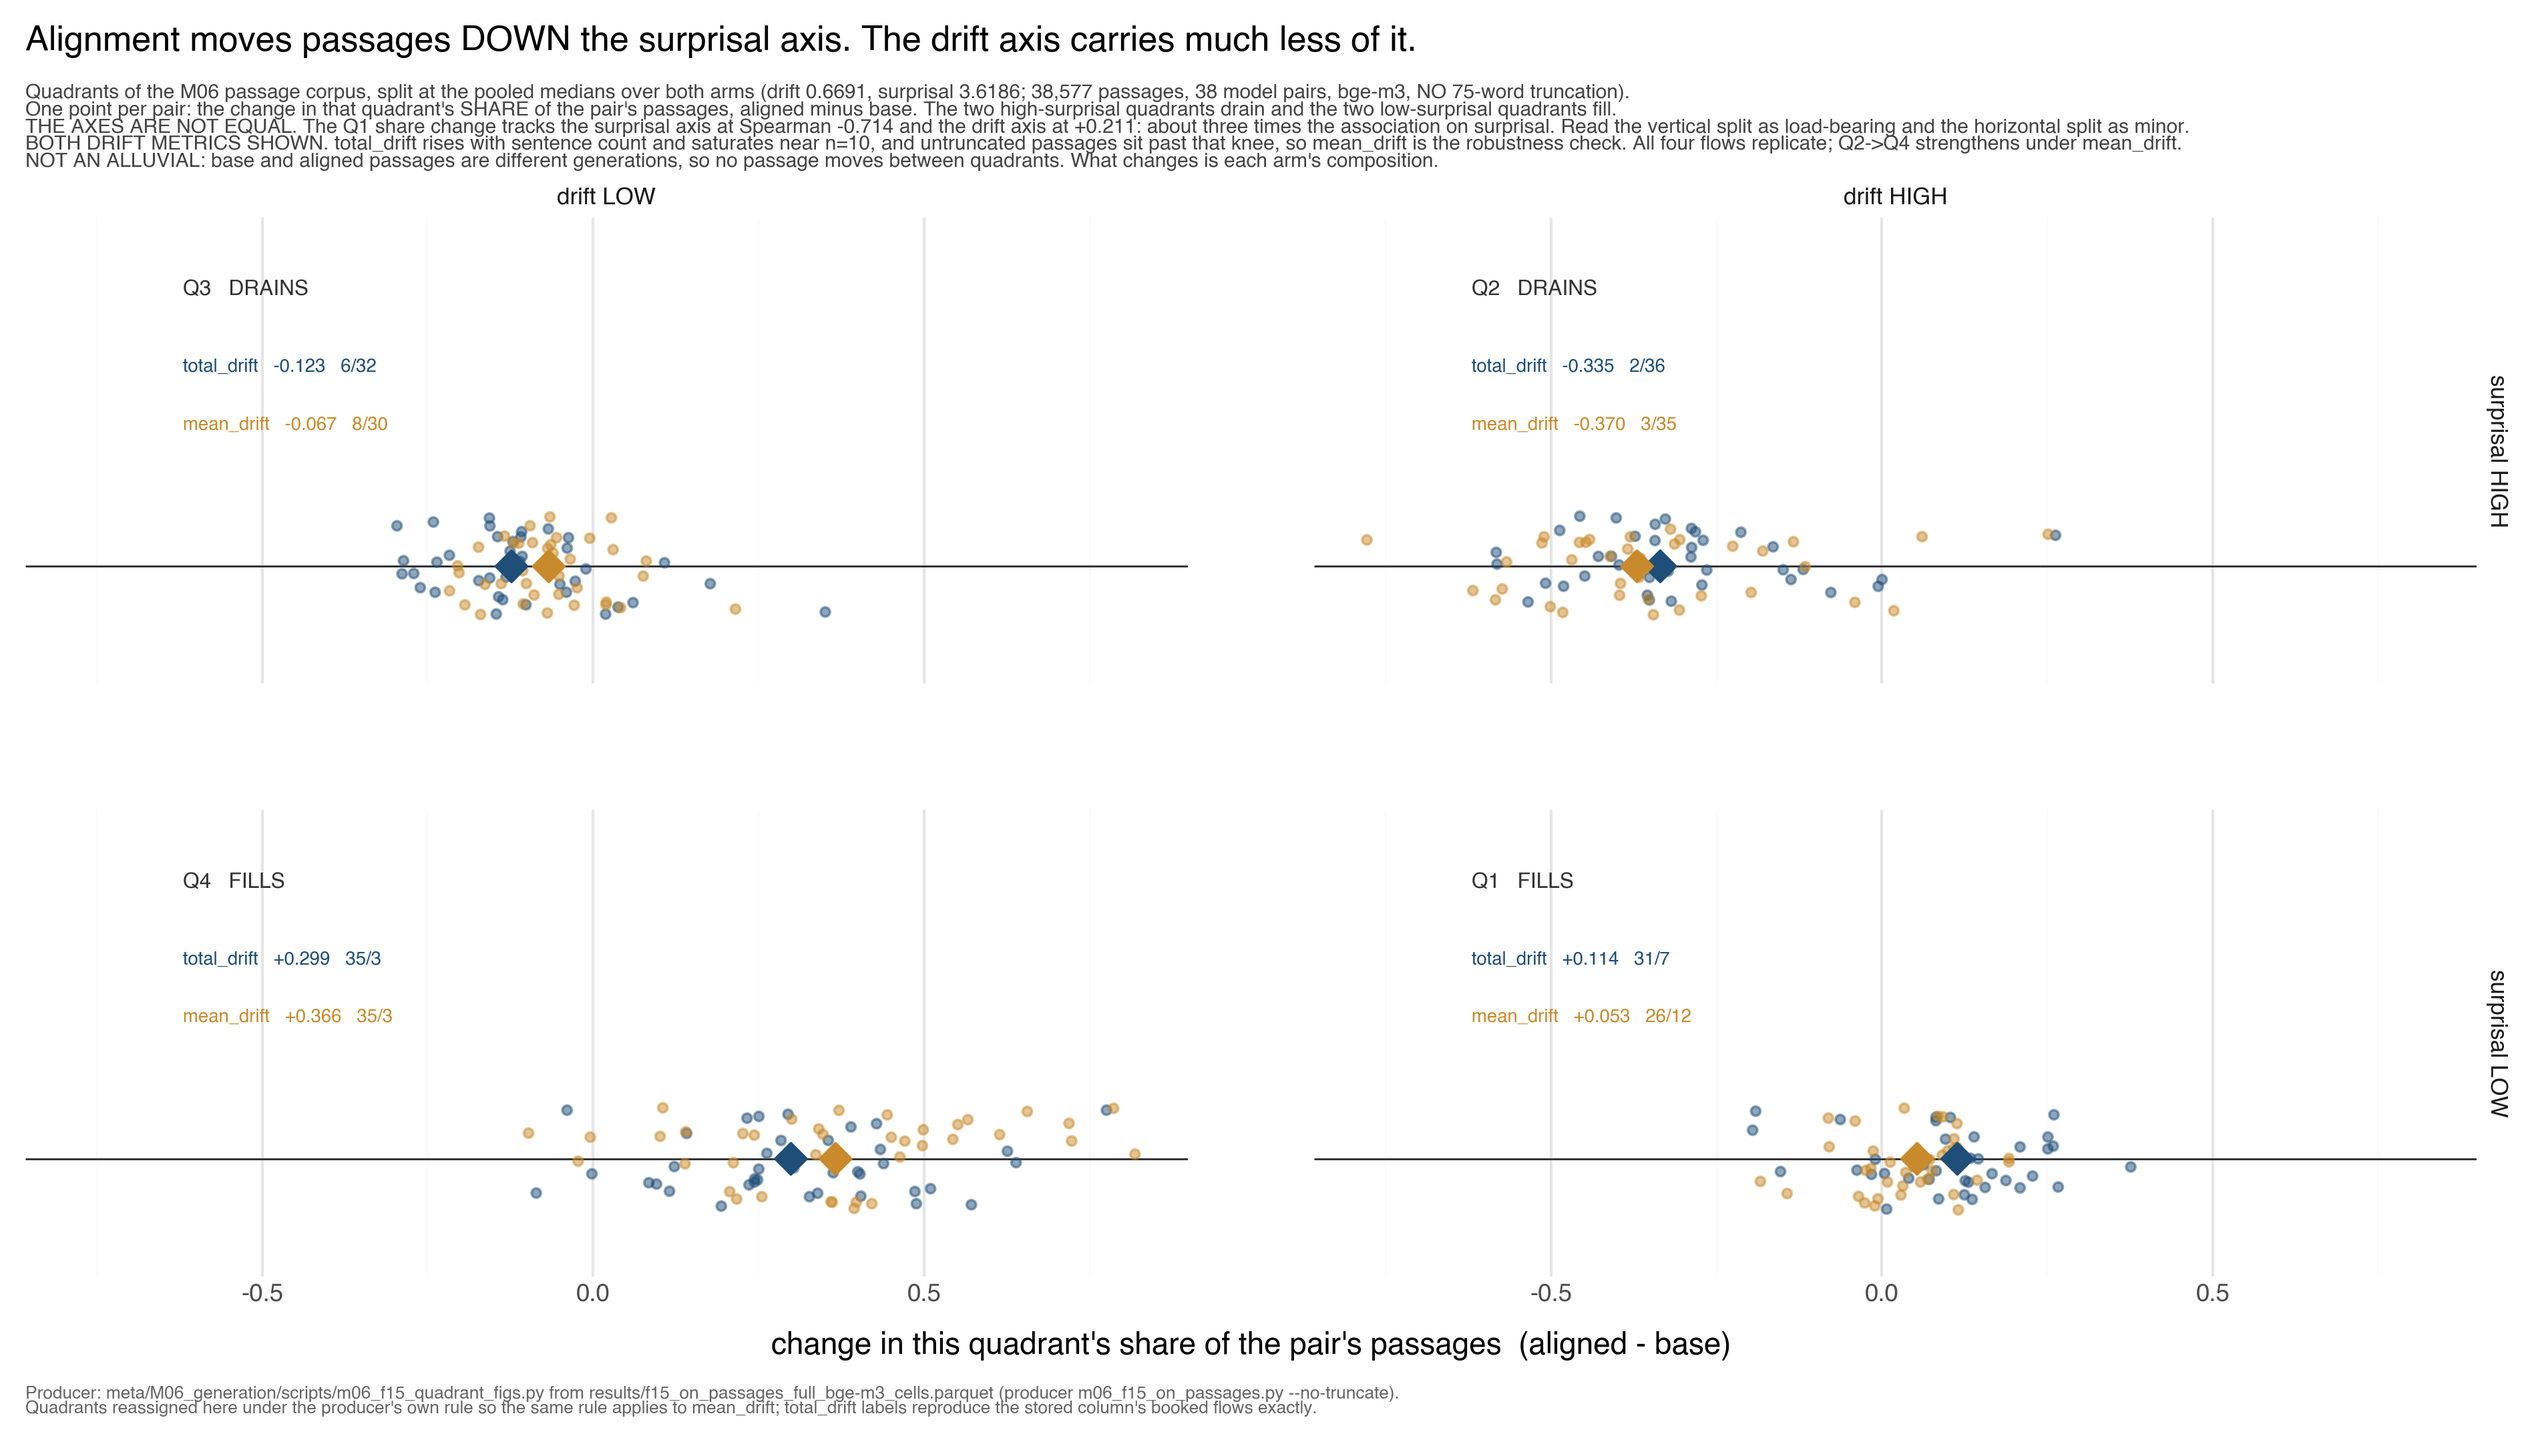
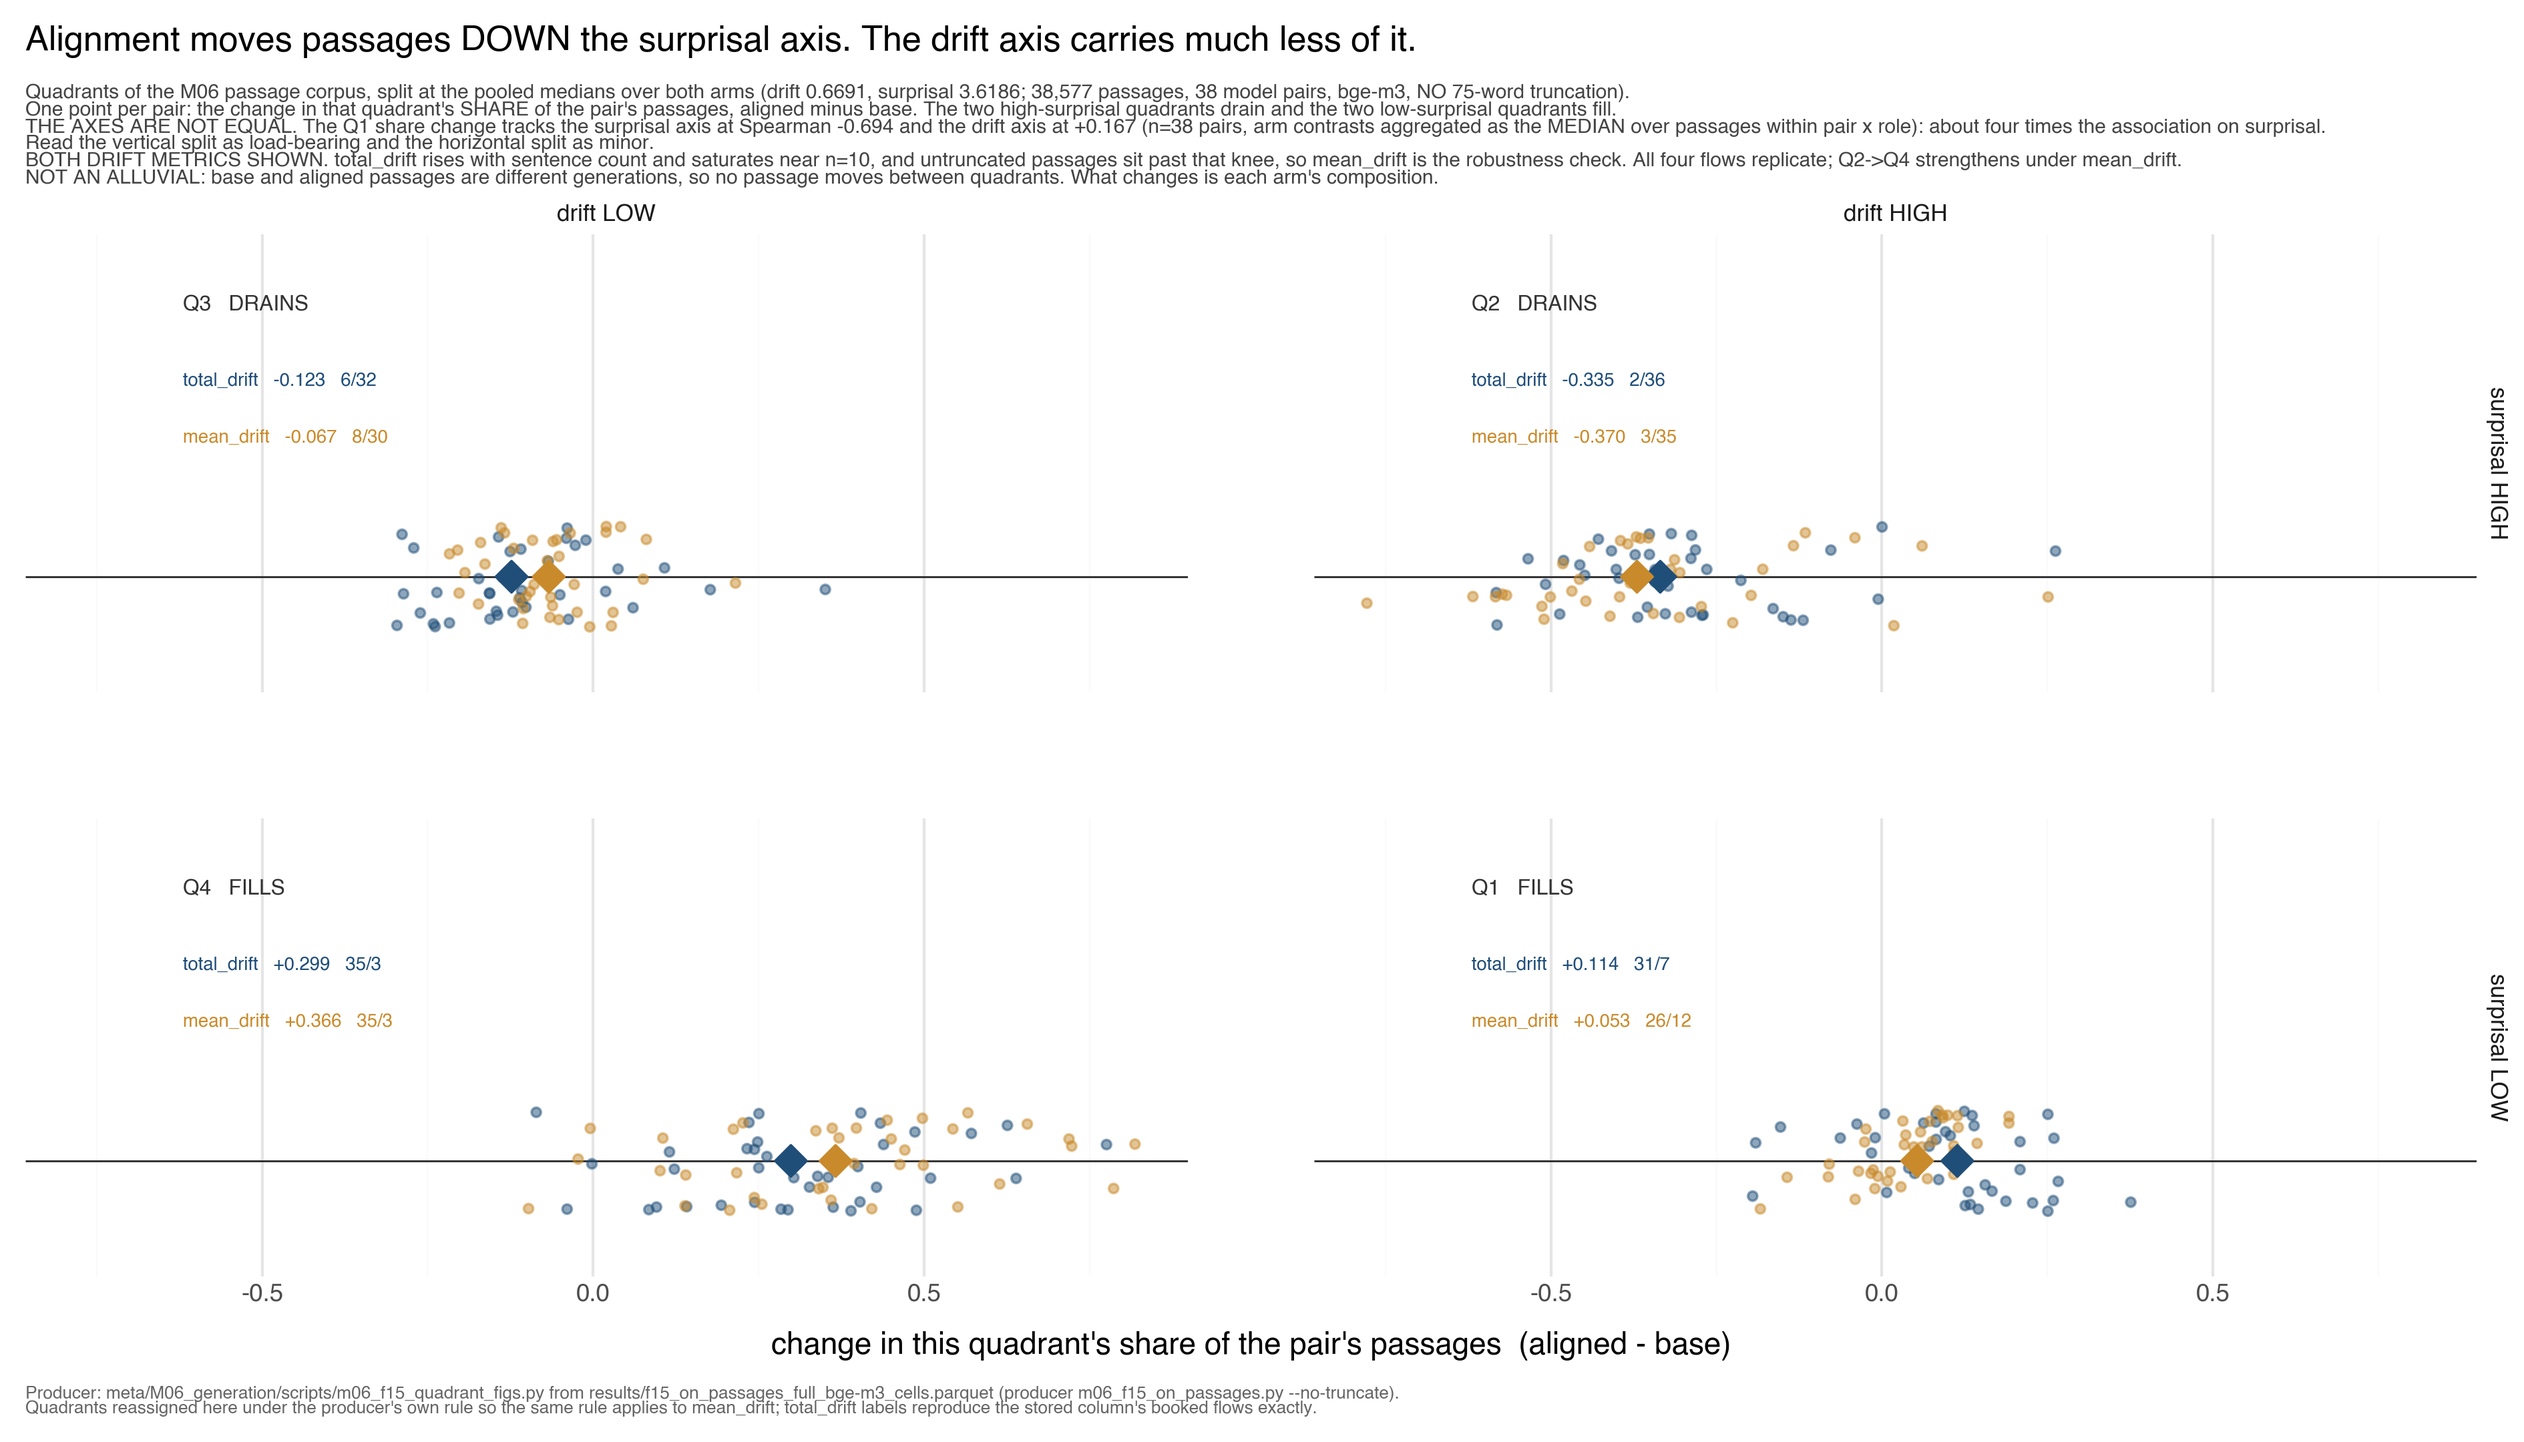
M06: reconcile the item-4 axis rho to the median aggregation, and assert it
lacan reconciled the discrepancy at [5924]: plot-debt's -0.694/+0.167
and this script's -0.714/+0.211 are the same quantity under MEDIAN and
MEAN aggregation over passages within pair x role. Both reproduce
exactly on the committed cells; neither was miscoded.

The median is correct, for two reasons. Substantively, total_drift is
1 - min(pairwise cosine), an extreme statistic whose passage
distribution is skewed, so a mean is the wrong summary for it. By
precedent, the pair grain is the median over the within-pair unit --
which is the convention this seat recovered from m06_self_surprisal.py
and reported at [5915], two hours before computing this figure with the
mean. The rule existed, was written down, and still did not cross
folders, because nothing in the cells parquet says which aggregation
its pair grain takes. That is now in _axis_rho's docstring where the
next reader of this file will meet it.

The coefficients are no longer hard-coded in the subtitle. They are
computed by _axis_rho, asserted against the booked pair, and the panel
now names the aggregation beside them, so a third seat reproducing this
cannot land on the other value without the assert firing.

diff --git a/meta/M06_generation/scripts/m06_f15_quadrant_figs.py b/meta/M06_generation/scripts/m06_f15_quadrant_figs.py
@@ -33,19 +33,16 @@ migration nobody measured.
 THE TWO AXES DO NOT CARRY EQUAL INFORMATION, AND THAT GOES ON THE PANEL
 -----------------------------------------------------------------------
 A two-axis diagram invites the reader to assume parity. The Q1 share
-change tracks the surprisal axis at Spearman -0.714 and the drift axis
-at +0.211, so the surprisal axis carries roughly three times the
-association. plot-debt records -0.694 and +0.167 for the same pair of
-quantities; this script computes them from the committed cells with the
-producer's own per-cell aggregation (mean over passages within pair x
-role, contrasted aligned - base) and gets the values above. The
-qualitative claim is identical and robust; the exact coefficients are
-NOT reconciled, and the panel quotes what this script computes rather
-than what the queue records. Reported to the docket on shipping; no
-message id is cited here because this file was written before that post
-existed, and citing an id one has not read off the tool is exactly how
-a fabricated identifier enters a record ([5604], and lacan's own
-instance at [5921] the same night).
+change tracks the surprisal axis at Spearman -0.694 and the drift axis
+at +0.167, so the surprisal axis carries about four times the
+association. Computed here rather than quoted, and asserted.
+
+The first version of this file computed -0.714 / +0.211 and reported
+the difference from plot-debt as unreconciled. lacan reconciled it at
+[5924]: the only difference is MEDIAN versus MEAN aggregation over
+passages within pair x role, both reproduce exactly, and the median is
+correct. See `_axis_rho` for why, including the part where this seat
+established that convention at [5915] and then did not carry it here.
 
 THE mean_drift RIDER IS DISCHARGED HERE
 ---------------------------------------
@@ -114,6 +111,36 @@ def _stat(s):
     return float(np.median(s)), int((s > 0).sum()), int((s < 0).sum())
 
 
+def _axis_rho(d, q1_delta):
+    """Spearman rho of the Q1 share change against each arm contrast.
+
+    THE AGGREGATION IS THE MEDIAN over passages within pair x role, not
+    the mean. Two reasons, and the second is the one that generalises.
+
+    Substantive: `total_drift` is 1 - min(pairwise cosine), an EXTREME
+    statistic, so its passage distribution is skewed and a mean is the
+    wrong summary for it specifically (lacan, [5924]).
+
+    Precedent: the pair grain is the median over the within-pair unit,
+    which is the convention recovered from `m06_self_surprisal.py` and
+    reported at [5915] -- by this seat, two hours before it then computed
+    this figure with the mean. The rule existed, was written down, and
+    still did not cross folders, because nothing in the cells parquet
+    says which aggregation its pair grain takes. Hence this docstring.
+    """
+    from scipy import stats
+
+    cell = (d.groupby(["pair", "role"])
+            .agg(surp=("mean_surprisal", "median"),
+                 drift=("total_drift", "median")).reset_index())
+    piv = cell.pivot(index="pair", columns="role")
+    P1 = (piv[("surp", "aligned")] - piv[("surp", "base")]).dropna()
+    P2 = (piv[("drift", "aligned")] - piv[("drift", "base")]).dropna()
+    j = pd.concat({"q1": q1_delta, "P1": P1, "P2": P2}, axis=1).dropna()
+    return (float(stats.spearmanr(j.q1, j.P1).statistic),
+            float(stats.spearmanr(j.q1, j.P2).statistic), len(j))
+
+
 def quadrants():
     """The quadrant plane: alignment moves passages down the surprisal axis.
 
@@ -147,6 +174,13 @@ def quadrants():
         gm, gup, gdn = stats[("total_drift", quad)]
         assert round(gm, 4) == m and (gup, gdn) == (up, dn), \
             f"{quad} drifted: {round(gm, 4)} {gup}/{gdn} vs booked {m} {up}/{dn}"
+
+    q1 = (frames[0][frames[0].quadrant == "Q1"]
+          .set_index("pair").delta)
+    rho_s, rho_d, n_rho = _axis_rho(d, q1)
+    assert (round(rho_s, 3), round(rho_d, 3)) == (-0.694, 0.167), \
+        (f"axis rho drifted: {round(rho_s, 3)}/{round(rho_d, 3)} vs "
+         f"booked -0.694/+0.167 (plot-debt item 4, reconciled at [5924])")
 
     df = pd.concat(frames, ignore_index=True)
     df["dl"] = df.quadrant.map(lambda q: PLANE[q][0])
@@ -193,8 +227,10 @@ def quadrants():
                 "One point per pair: the change in that quadrant's SHARE of the pair's passages, "
                 "aligned minus base. The two high-surprisal quadrants drain and the two low-surprisal "
                 "quadrants fill.\n"
-                "THE AXES ARE NOT EQUAL. The Q1 share change tracks the surprisal axis at Spearman "
-                "-0.714 and the drift axis at +0.211: about three times the association on surprisal. "
+                f"THE AXES ARE NOT EQUAL. The Q1 share change tracks the surprisal axis at Spearman "
+                f"{rho_s:.3f} and the drift axis at {rho_d:+.3f} (n={n_rho} pairs, arm contrasts "
+                f"aggregated as the MEDIAN over passages within pair x role): about four times the "
+                "association on surprisal.\n"
                 "Read the vertical split as load-bearing and the horizontal split as minor.\n"
                 "BOTH DRIFT METRICS SHOWN. total_drift rises with sentence count and saturates near "
                 "n=10, and untruncated passages sit past that knee, so mean_drift is the robustness "
